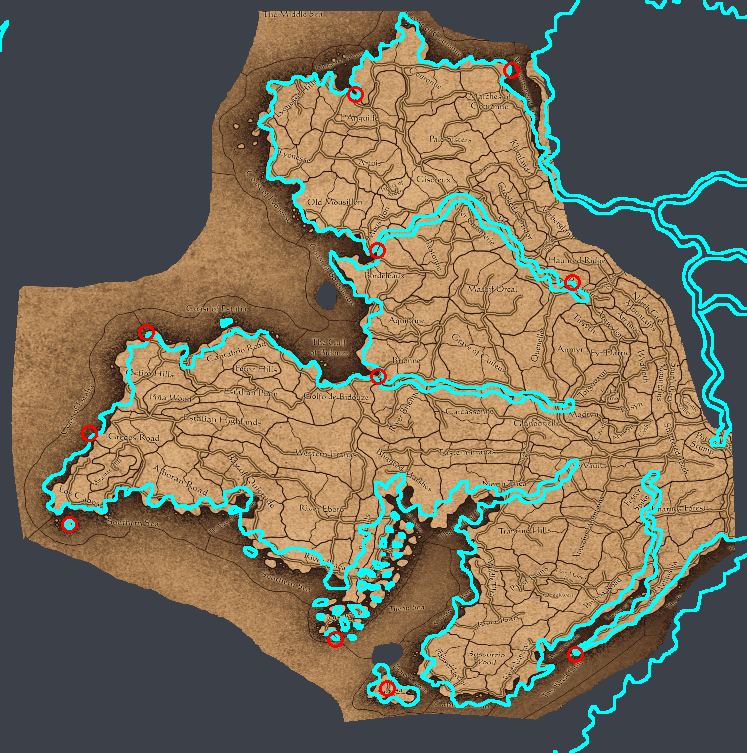
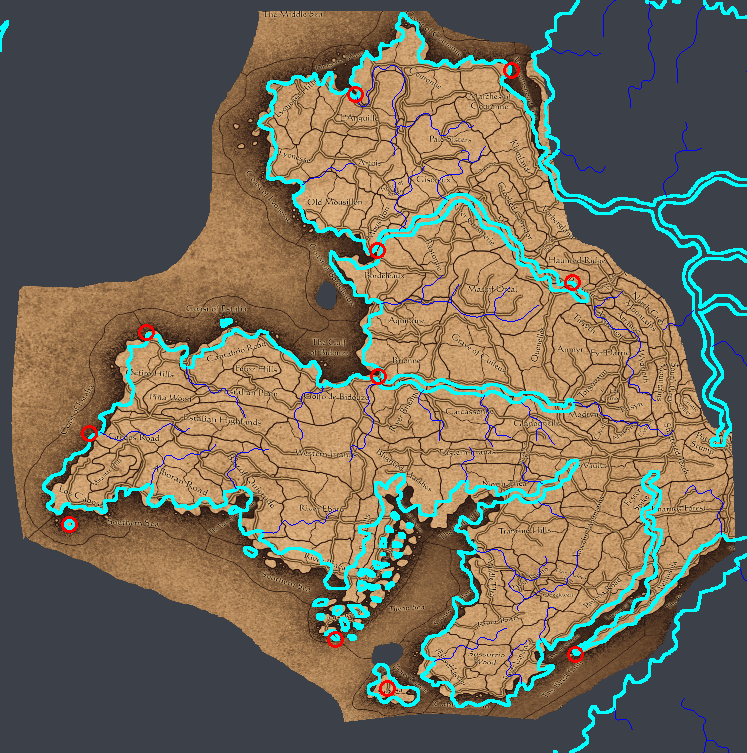
render_anchor_dot_example.py: overlay the committed river network
Diagnostic anchor-dot renders now draw map_data/rivers.png's river
network in blue alongside the existing cyan coastline and red
landmark rings, in both render() (canvas-footprint resolution) and
render_native() (through the inverse warp). Wired into main() with
the same missing-file guard style as the coastline mask. Regenerated
the committed Bretonnia example to reflect the new overlay.

diff --git a/tools/render_anchor_dot_example.py b/tools/render_anchor_dot_example.py
@@ -8,8 +8,9 @@ Dark-Lands/Badlands render style: the clean source tile thin-plate-warped onto
 the canvas through its **committed** registration record (no re-fit — the point
 is to prove the committed placement still reproduces what the user accepted),
 composited over a neutral backdrop, with the committed
-``tools/derived/land_sea_mask.png`` coastline overlaid in cyan and the seed's
-landmark dots as red rings, cropped to the record's footprint.
+``tools/derived/land_sea_mask.png`` coastline overlaid in cyan, the committed
+``map_data/rivers.png`` river network overlaid in blue, and the seed's landmark
+dots as red rings, cropped to the record's footprint.
 
 Writes ``tools/derived/<region>_anchor_dot_warp_example.png``, where
 ``<region>`` is the seed stem with the shared ``tww3_old_world_mod_parchment_``
@@ -60,7 +61,7 @@ from scipy import ndimage
 sys.path.insert(0, str(Path(__file__).resolve().parent))
 
 from config import map_config  # noqa: E402
-from worldgen import derive_crop, land_provinces, raster, reproject, schema  # noqa: E402
+from worldgen import derive_crop, land_provinces, raster, reproject, rivers, schema  # noqa: E402
 from worldgen import sources as sources_mod  # noqa: E402
 
 TOOLS_DIR = Path(__file__).resolve().parent
@@ -69,6 +70,9 @@ REGISTRATION_DIR = TOOLS_DIR / "registration"
 SOURCES_DIR = TOOLS_DIR.parent / "sources"
 DERIVED_DIR = TOOLS_DIR / "derived"
 MASK_PATH = DERIVED_DIR / "land_sea_mask.png"
+#: The committed, canvas-frame river network (board #3703) — same frame as the
+#: coastline mask, so it overlays with no warp of its own in render().
+RIVERS_PATH = TOOLS_DIR.parent / "map_data" / "rivers.png"
 #: The hand-drawn state-region magenta network — canvas-scale, same source
 #: tools/worldgen/land_provinces.py consumes for the real province cut.
 STATE_REGIONS_SOURCE = "terraqueous_globe_reprojected - state_regions.png"
@@ -78,6 +82,7 @@ CANVAS_W, CANVAS_H = map_config.PROVINCES_SIZE
 #: The accepted render style (measured off the committed Badlands example).
 BACKDROP_RGB = (60, 64, 72)
 COAST_RGB = (0, 255, 255)
+RIVER_RGB = (0, 0, 255)
 BORDER_RGB = (255, 0, 255)
 RING_RGB = (255, 0, 0)
 RING_R_OUT = 8.5
@@ -211,6 +216,24 @@ def overlay_coast(canvas_rgb: np.ndarray, box: tuple[int, int, int, int], land: 
     canvas_rgb[edge] = COAST_RGB
 
 
+def load_river_mask() -> np.ndarray:
+    """The committed river network (``map_data/rivers.png``) as a canvas-shaped
+    boolean mask — every pixel whose index is neither land (255) nor sea (254)
+    per :mod:`worldgen.rivers`' semantic palette (source/merge/split/width
+    indices all count as river)."""
+    idx, _palette = raster.read_indexed_png(RIVERS_PATH)
+    return ~np.isin(idx, [rivers.LAND, rivers.SEA])
+
+
+def overlay_rivers(canvas_rgb: np.ndarray, box: tuple[int, int, int, int], river: np.ndarray) -> None:
+    """Blue river network from the committed bitmap, drawn over the coastline."""
+    x0, y0, x1, y1 = box
+    sub = river[y0:y1, x0:x1]
+    if not sub.any():
+        return
+    canvas_rgb[sub] = RIVER_RGB
+
+
 def _draw_ring(canvas_rgb: np.ndarray, cx: float, cy: float) -> None:
     """One red ring centered at ``(cx, cy)`` in ``canvas_rgb``'s own pixel frame."""
     h, w = canvas_rgb.shape[:2]
@@ -282,7 +305,15 @@ def render_native(stem: str, out_file: str, overlay_borders: bool = False) -> Pa
         log(f"state borders {int(borders.sum()):,} canvas px")
         border_f = borders.astype(np.float64)
 
+    river = load_river_mask()
+    if river.shape != (canvas_h, canvas_w):
+        raise SystemExit(f"{RIVERS_PATH} is {river.shape[1]}x{river.shape[0]}, "
+                         f"expected {canvas_w}x{canvas_h} (the canvas frame)")
+    river_f = river.astype(np.float64)
+    log(f"rivers        {int(river.sum()):,} canvas px")
+
     land_at_source = np.zeros((sh, sw), dtype=bool)
+    river_at_source = np.zeros((sh, sw), dtype=bool)
     border_at_source = np.zeros((sh, sw), dtype=bool) if border_f is not None else None
     gx = (np.arange(sw, dtype=np.float64) + 0.5)[None, :]
     for yb in range(0, sh, ROW_BLOCK):
@@ -293,12 +324,15 @@ def render_native(stem: str, out_file: str, overlay_borders: bool = False) -> Pa
         inside = (cx >= 0) & (cx <= canvas_w - 1) & (cy >= 0) & (cy <= canvas_h - 1)
         v = reproject.resample(land_f, cx, cy, order=0)
         land_at_source[yb:ye, :] = inside & (v > 0.5)
+        rv = reproject.resample(river_f, cx, cy, order=0)
+        river_at_source[yb:ye, :] = inside & (rv > 0.5)
         if border_f is not None:
             bv = reproject.resample(border_f, cx, cy, order=0)
             border_at_source[yb:ye, :] = inside & (bv > 0.5)
 
     canvas_rgb = rgb.copy()
     overlay_coast(canvas_rgb, (0, 0, sw, sh), land_at_source)
+    canvas_rgb[river_at_source] = RIVER_RGB
     if border_at_source is not None:
         canvas_rgb[border_at_source] = BORDER_RGB
     for lm in seed["landmarks"]:
@@ -313,6 +347,11 @@ def render_native(stem: str, out_file: str, overlay_borders: bool = False) -> Pa
 def render(stems: list[str], out_file: str, box_pad: int = 0) -> Path:
     regs = {r.source: r for r in schema.load_registrations(REGISTRATION_DIR)}
     land = raster.read_mask_png(MASK_PATH)
+    river = load_river_mask()
+    if river.shape != land.shape:
+        raise SystemExit(f"{RIVERS_PATH} is {river.shape[1]}x{river.shape[0]}, "
+                         f"expected {land.shape[1]}x{land.shape[0]} (the canvas frame, "
+                         f"same as {MASK_PATH.name})")
 
     seeds = [load_seed(s) for s in stems]
     tile_regs = []
@@ -339,6 +378,7 @@ def render(stems: list[str], out_file: str, box_pad: int = 0) -> Path:
     log(f"tile coverage {100.0 * canvas_valid.mean():.1f}% of the render box")
 
     overlay_coast(canvas_rgb, box, land)
+    overlay_rivers(canvas_rgb, box, river)
     for seed in seeds:
         draw_rings(canvas_rgb, box, seed)
 
@@ -370,6 +410,8 @@ def main(argv: list[str] | None = None) -> int:
 
     if not MASK_PATH.is_file():
         raise SystemExit(f"{MASK_PATH} not found — run tools/generate_heightmap.py first")
+    if not RIVERS_PATH.is_file():
+        raise SystemExit(f"{RIVERS_PATH} not found — run tools/generate_rivers.py first")
 
     stems = list(args.seed)
     if args.all:
